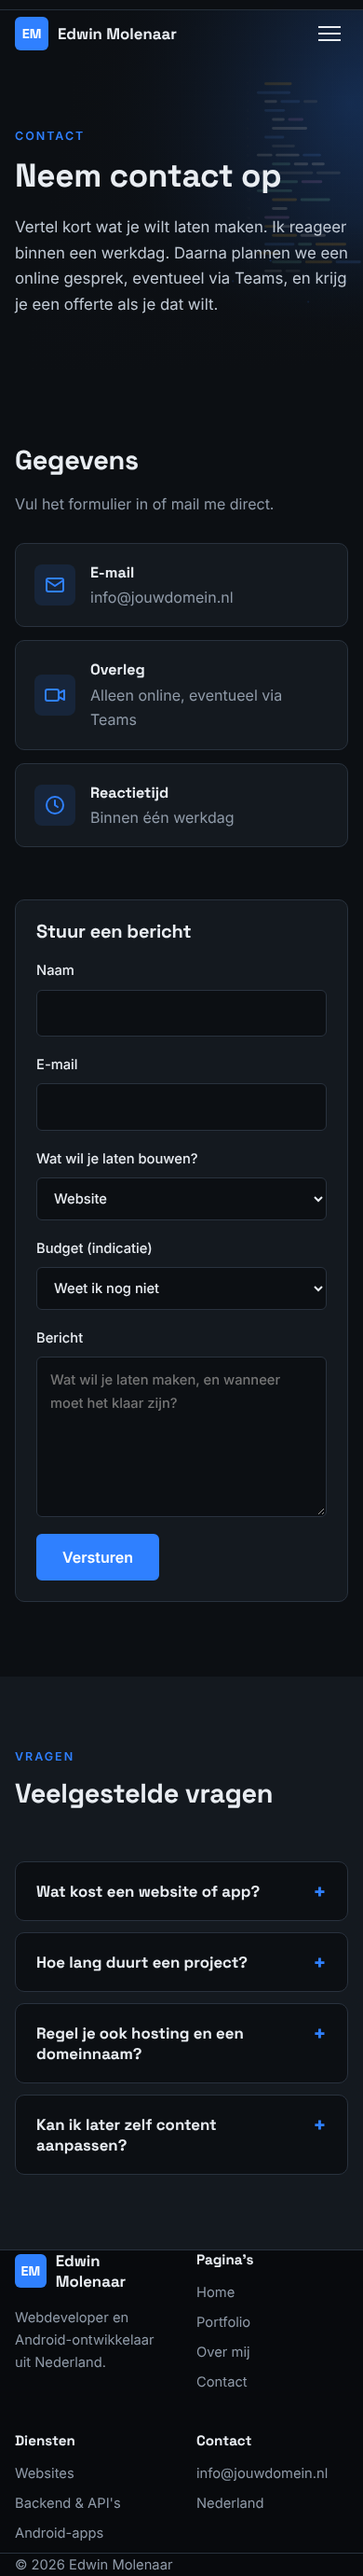
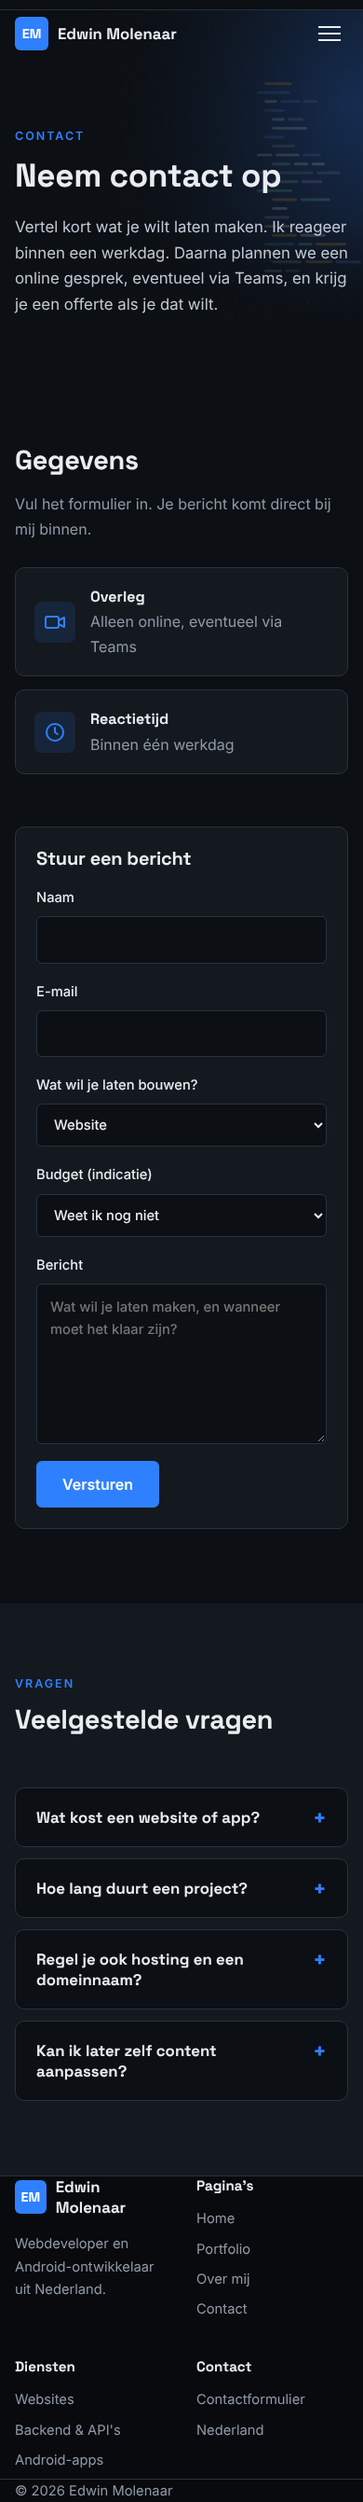
Send contact form server-side to info@wendaro.nl and link Wendaro Connect
The contact form now posts to contact.php, which mails the message with
PHP mail() and stores it in a new Berichten tab in the admin page, so the
address never appears on the site or in the page source. Remove the email
from the footer and contact page, add a honeypot, a time check and a
per-session limit against spam, and link Wendaro Connect to its website.

Claude-Session: https://claude.ai/code/session_01BR2aM2KyyCs7b3zr3d6H45

diff --git a/script.js b/script.js
@@ -39,15 +39,3 @@ if ("IntersectionObserver" in window) {
 } else {
   revealItems.forEach((el) => el.classList.add("visible"));
 }
-
-// Contactformulier: opent het e-mailprogramma met een ingevuld bericht
-const form = document.getElementById("contact-form");
-if (form) {
-  form.addEventListener("submit", (e) => {
-    e.preventDefault();
-    const data = new FormData(form);
-    const subject = `Aanvraag: ${data.get("type")} – ${data.get("naam")}`;
-    const body = `Naam: ${data.get("naam")}\nE-mail: ${data.get("email")}\nType: ${data.get("type")}\nBudget: ${data.get("budget")}\n\n${data.get("bericht")}`;
-    window.location.href = `mailto:${form.dataset.email}?subject=${encodeURIComponent(subject)}&body=${encodeURIComponent(body)}`;
-  });
-}

diff --git a/style.css b/style.css
@@ -412,3 +412,4 @@ a.project-link:hover .visit { text-decoration: underline; }
 .lock:hover, .lock:focus-visible { opacity: 1; color: var(--text); }
 .lock:focus-visible { outline: 2px solid var(--accent); outline-offset: 2px; }
 .lock svg { width: 15px; height: 15px; fill: none; stroke: currentColor; stroke-width: 2; stroke-linecap: round; stroke-linejoin: round; }
+.hp { position: absolute; left: -9999px; width: 1px; height: 1px; overflow: hidden; }

diff --git a/beheer/beheer.css b/beheer/beheer.css
@@ -71,3 +71,5 @@
   .admin-side a { white-space: nowrap; }
   .inline-form { grid-template-columns: 1fr; }
 }
+.unread { border-color: #6b5420; }
+.admin-card .card-head a { color: var(--accent-hover); font-size: .92rem; }

diff --git a/contact.php b/contact.php
@@ -2,7 +2,55 @@
 require __DIR__ . '/includes/bootstrap.php';
 require __DIR__ . '/includes/layout.php';
 
-$email = c('contact_email');
+const TYPES = ['Website', 'Webapplicatie / backend', 'Android-app', 'Combinatie'];
+const BUDGETS = ['Weet ik nog niet', 'Tot € 2.500', '€ 2.500 – € 7.500', '€ 7.500 – € 15.000', 'Meer dan € 15.000'];
+
+$error = '';
+$old = ['naam' => '', 'email' => '', 'type' => TYPES[0], 'budget' => BUDGETS[0], 'bericht' => ''];
+
+if ($_SERVER['REQUEST_METHOD'] === 'POST') {
+    check_csrf();
+    foreach ($old as $k => $_) $old[$k] = trim((string)($_POST[$k] ?? ''));
+    $recent = array_filter($_SESSION['sent'] ?? [], fn($t) => $t > time() - 3600);
+
+    if (($_POST['website'] ?? '') !== '' || time() - (int)($_SESSION['form_shown'] ?? 0) < 3) {
+        // Spam: onzichtbaar veld ingevuld of binnen 3 seconden verstuurd. Doe alsof het gelukt is.
+        header('Location: contact.php?verzonden=1#formulier');
+        exit;
+    } elseif (count($recent) >= 5) {
+        $error = 'Je hebt al een paar berichten gestuurd. Probeer het over een uur opnieuw.';
+    } elseif ($old['naam'] === '' || mb_strlen($old['naam']) > 100 || preg_match('/[\r\n]/', $old['naam'])) {
+        $error = 'Vul je naam in.';
+    } elseif (!filter_var($old['email'], FILTER_VALIDATE_EMAIL) || mb_strlen($old['email']) > 150) {
+        $error = 'Vul een geldig e-mailadres in, zodat ik je kan antwoorden.';
+    } elseif (!in_array($old['type'], TYPES, true) || !in_array($old['budget'], BUDGETS, true)) {
+        $error = 'Kies wat je wilt laten bouwen en een budget.';
+    } elseif (mb_strlen($old['bericht']) < 10 || mb_strlen($old['bericht']) > 5000) {
+        $error = 'Schrijf een bericht van minimaal 10 tekens.';
+    } else {
+        $host = preg_replace('/[^a-z0-9.-]/i', '', explode(':', $_SERVER['HTTP_HOST'] ?? 'localhost')[0]);
+        $host = preg_replace('/^www\./i', '', $host);
+        $headers = implode("\r\n", [
+            'From: Website Edwin Molenaar <noreply@' . $host . '>',
+            'Reply-To: ' . $old['email'],
+            'MIME-Version: 1.0',
+            'Content-Type: text/plain; charset=UTF-8',
+            'Content-Transfer-Encoding: 8bit',
+        ]);
+        $body = "Naam: {$old['naam']}\nE-mail: {$old['email']}\nWat: {$old['type']}\nBudget: {$old['budget']}\n\n{$old['bericht']}\n";
+        $subject = mb_encode_mimeheader('Nieuw bericht via de website: ' . $old['type'], 'UTF-8');
+        $mailed = @mail(c('contact_email'), $subject, $body, $headers) ? 1 : 0;
+
+        db()->prepare('INSERT INTO messages (name, email, type, budget, body, mailed, created_at) VALUES (?, ?, ?, ?, ?, ?, ?)')
+            ->execute([$old['naam'], $old['email'], $old['type'], $old['budget'], $old['bericht'], $mailed, date('c')]);
+        $_SESSION['sent'] = [...$recent, time()];
+        header('Location: contact.php?verzonden=1#formulier');
+        exit;
+    }
+}
+$_SESSION['form_shown'] = time();
+$sent = isset($_GET['verzonden']);
+
 layout_head('Contact – Edwin Molenaar', 'Neem contact op met Edwin Molenaar voor een website, backend of Android-app.', 'contact');
 ?>
   <main>
@@ -12,12 +60,8 @@ layout_head('Contact – Edwin Molenaar', 'Neem contact op met Edwin Molenaar vo
       <div class="container contact">
         <div>
           <h2>Gegevens</h2>
-          <p class="muted">Vul het formulier in of mail me direct.</p>
+          <p class="muted">Vul het formulier in. Je bericht komt direct bij mij binnen.</p>
           <ul class="contact-cards">
-            <li>
-              <svg viewBox="0 0 24 24"><rect x="3" y="5" width="18" height="14" rx="2"/><path d="m3 7 9 6 9-6"/></svg>
-              <div><strong>E-mail</strong><a href="mailto:<?= e($email) ?>"><?= e($email) ?></a></div>
-            </li>
             <li>
               <svg viewBox="0 0 24 24"><rect x="2" y="6" width="14" height="12" rx="2"/><path d="m16 10 6-3v10l-6-3"/></svg>
               <div><strong>Overleg</strong><span><?= e(c('contact_meeting')) ?></span></div>
@@ -28,34 +72,38 @@ layout_head('Contact – Edwin Molenaar', 'Neem contact op met Edwin Molenaar vo
             </li>
           </ul>
         </div>
-        <form class="form" id="contact-form" data-email="<?= e($email) ?>">
+        <?php if ($sent): ?>
+        <div class="form" id="formulier" role="status">
+          <h3>Bedankt voor je bericht</h3>
+          <p class="muted">Je bericht is verstuurd. Ik reageer binnen een werkdag op het e-mailadres dat je hebt ingevuld.</p>
+          <a class="btn btn-outline" href="contact.php#formulier">Nog een bericht sturen</a>
+        </div>
+        <?php else: ?>
+        <form class="form" id="formulier" method="post" action="contact.php#formulier">
+          <?= csrf_field() ?>
           <h3>Stuur een bericht</h3>
+          <?php if ($error): ?><p class="notice notice-error" role="alert"><?= e($error) ?></p><?php endif; ?>
           <div class="field-row">
-            <label>Naam<input name="naam" required autocomplete="name"></label>
-            <label>E-mail<input name="email" type="email" required autocomplete="email"></label>
+            <label>Naam<input id="naam" name="naam" required maxlength="100" autocomplete="name" value="<?= e($old['naam']) ?>"></label>
+            <label>E-mail<input id="email" name="email" type="email" required maxlength="150" autocomplete="email" value="<?= e($old['email']) ?>"></label>
           </div>
           <div class="field-row">
             <label>Wat wil je laten bouwen?
-              <select name="type">
-                <option>Website</option>
-                <option>Webapplicatie / backend</option>
-                <option>Android-app</option>
-                <option>Combinatie</option>
+              <select id="type" name="type">
+                <?php foreach (TYPES as $t): ?><option<?= $t === $old['type'] ? ' selected' : '' ?>><?= e($t) ?></option><?php endforeach; ?>
               </select>
             </label>
             <label>Budget (indicatie)
-              <select name="budget">
-                <option>Weet ik nog niet</option>
-                <option>Tot &euro; 2.500</option>
-                <option>&euro; 2.500 – &euro; 7.500</option>
-                <option>&euro; 7.500 – &euro; 15.000</option>
-                <option>Meer dan &euro; 15.000</option>
+              <select id="budget" name="budget">
+                <?php foreach (BUDGETS as $b): ?><option<?= $b === $old['budget'] ? ' selected' : '' ?>><?= e($b) ?></option><?php endforeach; ?>
               </select>
             </label>
           </div>
-          <label>Bericht<textarea name="bericht" rows="6" required placeholder="Wat wil je laten maken, en wanneer moet het klaar zijn?"></textarea></label>
+          <label>Bericht<textarea id="bericht" name="bericht" rows="6" required minlength="10" maxlength="5000" placeholder="Wat wil je laten maken, en wanneer moet het klaar zijn?"><?= e($old['bericht']) ?></textarea></label>
+          <div class="hp" aria-hidden="true"><label>Laat dit veld leeg<input name="website" tabindex="-1" autocomplete="off"></label></div>
           <button class="btn" type="submit">Versturen</button>
         </form>
+        <?php endif; ?>
       </div>
     </section>
 

diff --git a/beheer/index.php b/beheer/index.php
@@ -4,7 +4,7 @@ require __DIR__ . '/../includes/bootstrap.php';
 header('X-Robots-Tag: noindex, nofollow');
 header('Cache-Control: no-store');
 
-const TABS = ['teksten' => 'Teksten & foto\'s', 'portfolio' => 'Portfolio', 'reviews' => 'Reviews', 'links' => 'Reviewlinks', 'account' => 'Account'];
+const TABS = ['berichten' => 'Berichten', 'teksten' => 'Teksten & foto\'s', 'portfolio' => 'Portfolio', 'reviews' => 'Reviews', 'links' => 'Reviewlinks', 'account' => 'Account'];
 
 function flash(string $msg, string $type = 'ok'): void { $_SESSION['flash'] = [$msg, $type]; }
 function back(string $query = ''): never
@@ -179,6 +179,15 @@ if ($action !== '') {
                 flash('De reviewlink is verwijderd en werkt niet meer.');
                 back('tab=links');
 
+            case 'message_read':
+                $pdo->prepare('UPDATE messages SET is_read = 1 WHERE id = ?')->execute([(int)($_POST['id'] ?? 0)]);
+                back('tab=berichten');
+
+            case 'message_delete':
+                $pdo->prepare('DELETE FROM messages WHERE id = ?')->execute([(int)($_POST['id'] ?? 0)]);
+                flash('Het bericht is verwijderd.');
+                back('tab=berichten');
+
             case 'password':
                 if (!password_verify((string)($_POST['current'] ?? ''), admin_hash())) throw new RuntimeException('Je huidige wachtwoord klopt niet.');
                 $pw = (string)($_POST['password'] ?? '');
@@ -195,15 +204,18 @@ if ($action !== '') {
     back();
 }
 
-render_page($_GET['tab'] ?? 'teksten');
+render_page($_GET['tab'] ?? 'berichten');
 
 // ---------- Weergave ----------
 function render_page(string $view): void
 {
     $flash = $_SESSION['flash'] ?? null;
     unset($_SESSION['flash']);
-    $tab = isset(TABS[$view]) ? $view : ($view === 'setup' || $view === 'login' ? $view : 'teksten');
-    $pending = is_admin() ? (int)db()->query('SELECT COUNT(*) FROM reviews WHERE status = "pending"')->fetchColumn() : 0;
+    $tab = isset(TABS[$view]) ? $view : ($view === 'setup' || $view === 'login' ? $view : 'berichten');
+    $badges = is_admin() ? [
+        'reviews' => (int)db()->query('SELECT COUNT(*) FROM reviews WHERE status = "pending"')->fetchColumn(),
+        'berichten' => (int)db()->query('SELECT COUNT(*) FROM messages WHERE is_read = 0')->fetchColumn(),
+    ] : [];
     ?>
 <!doctype html>
 <html lang="nl">
@@ -232,7 +244,7 @@ function render_page(string $view): void
     <?php if (is_admin()): ?>
     <nav class="container admin-tabs" aria-label="Onderdelen">
       <?php foreach (TABS as $key => $label): ?>
-      <a href="?tab=<?= $key ?>"<?= $key === $tab ? ' aria-current="page"' : '' ?>><?= e($label) ?><?php if ($key === 'reviews' && $pending): ?> <span class="badge"><?= $pending ?></span><?php endif; ?></a>
+      <a href="?tab=<?= $key ?>"<?= $key === $tab ? ' aria-current="page"' : '' ?>><?= e($label) ?><?php if (!empty($badges[$key])): ?> <span class="badge"><?= $badges[$key] ?></span><?php endif; ?></a>
       <?php endforeach; ?>
     </nav>
     <?php endif; ?>
@@ -288,6 +300,38 @@ function img_src(string $path): string
 {
     return '../' . $path;
 }
+
+function view_berichten(): void
+{
+    $rows = db()->query('SELECT * FROM messages ORDER BY created_at DESC')->fetchAll();
+    ?>
+    <h1>Berichten</h1>
+    <p class="muted">Berichten van het contactformulier. Ze worden ook naar <?= e(c('contact_email')) ?> gemaild; hier staan ze voor het geval een mail niet aankomt.</p>
+    <?php if (!$rows): ?>
+    <section class="admin-card"><p>Er zijn nog geen berichten.</p></section>
+    <?php endif; ?>
+    <?php foreach ($rows as $m): ?>
+    <section class="admin-card<?= $m['is_read'] ? '' : ' unread' ?>">
+      <div class="card-head">
+        <div>
+          <?php if (!$m['is_read']): ?><span class="pill pill-pending">Nieuw</span><?php endif; ?>
+          <?php if (!$m['mailed']): ?><span class="pill pill-hidden">Niet gemaild</span><?php endif; ?>
+          <h2><?= e($m['name']) ?> <span class="muted">· <?= e($m['type']) ?> · <?= e($m['budget']) ?></span></h2>
+          <a href="mailto:<?= e($m['email']) ?>"><?= e($m['email']) ?></a>
+        </div>
+        <span class="muted small"><?= e(date('d-m-Y H:i', strtotime($m['created_at']))) ?></span>
+      </div>
+      <p><?= nl2br(e($m['body'])) ?></p>
+      <div class="form-actions">
+        <a class="btn btn-sm" href="mailto:<?= e($m['email']) ?>?subject=<?= rawurlencode('Re: ' . $m['type']) ?>">Beantwoorden</a>
+        <?php if (!$m['is_read']): ?>
+        <form method="post"><?= csrf_field() ?><input type="hidden" name="action" value="message_read"><input type="hidden" name="id" value="<?= (int)$m['id'] ?>"><button class="btn btn-outline btn-sm" type="submit">Markeer als gelezen</button></form>
+        <?php endif; ?>
+        <form method="post" data-confirm="Dit bericht verwijderen?"><?= csrf_field() ?><input type="hidden" name="action" value="message_delete"><input type="hidden" name="id" value="<?= (int)$m['id'] ?>"><button class="btn btn-danger btn-sm" type="submit">Verwijderen</button></form>
+      </div>
+    </section>
+    <?php endforeach; ?>
+<?php }
 
 function view_teksten(): void
 {

diff --git a/includes/bootstrap.php b/includes/bootstrap.php
@@ -40,6 +40,9 @@ function db(): PDO
         name TEXT NOT NULL, company TEXT NOT NULL DEFAULT "", rating INTEGER NOT NULL, body TEXT NOT NULL,
         status TEXT NOT NULL DEFAULT "pending", created_at TEXT NOT NULL)');
     $pdo->exec('CREATE TABLE IF NOT EXISTS login_attempts (ip TEXT NOT NULL, at INTEGER NOT NULL)');
+    $pdo->exec('CREATE TABLE IF NOT EXISTS messages (
+        id INTEGER PRIMARY KEY, name TEXT NOT NULL, email TEXT NOT NULL, type TEXT NOT NULL, budget TEXT NOT NULL,
+        body TEXT NOT NULL, mailed INTEGER NOT NULL DEFAULT 0, is_read INTEGER NOT NULL DEFAULT 0, created_at TEXT NOT NULL)');
     if ($new) seed_projects($pdo);
     return $pdo;
 }
@@ -48,7 +51,7 @@ function seed_projects(PDO $pdo): void
 {
     $rows = [
         ['Edgeflow', 'Android · Meldingen', 'Android-app voor meldingen: gebruikers maken en volgen meldingen direct vanaf hun telefoon en krijgen een pushbericht bij elke update.', 'Android, Pushmeldingen', 'img/project-edgeflow.svg', ''],
-        ['Wendaro Connect', 'App · Platform', 'Platform dat mensen en informatie samenbrengt in één overzichtelijke app, gekoppeld aan een eigen backend.', 'Android, Backend', 'img/project-wendaro.svg', ''],
+        ['Wendaro Connect', 'App · Platform', 'Platform dat mensen en informatie samenbrengt in één overzichtelijke app, gekoppeld aan een eigen backend.', 'Android, Backend', 'img/project-wendaro.svg', 'https://www.wendaro.nl'],
         ['Wanyama Photo', 'Website · Fotografie', 'Website voor Wanyama Photo.', 'Website', 'img/project-wanyama.svg', 'https://www.wanyama-photo.nl'],
     ];
     $st = $pdo->prepare('INSERT INTO projects (sort, title, tag, description, tech, image, url) VALUES (?, ?, ?, ?, ?, ?, ?)');

diff --git a/includes/fields.php b/includes/fields.php
@@ -19,7 +19,7 @@ const FIELD_GROUPS = [
 
 const FIELDS = [
     // Algemeen
-    'contact_email' => ['group' => 'algemeen', 'label' => 'E-mailadres voor contact', 'type' => 'text', 'default' => 'info@jouwdomein.nl'],
+    'contact_email' => ['group' => 'algemeen', 'label' => 'E-mailadres waar berichten van het contactformulier heen gaan (staat nergens op de site)', 'type' => 'text', 'default' => 'info@wendaro.nl'],
     'available' => ['group' => 'algemeen', 'label' => 'Label "beschikbaar" tonen', 'type' => 'bool', 'default' => '1'],
     'available_text' => ['group' => 'algemeen', 'label' => 'Tekst van het label', 'type' => 'text', 'default' => 'Beschikbaar voor nieuwe projecten'],
     'footer_text' => ['group' => 'algemeen', 'label' => 'Tekst in de footer', 'type' => 'text', 'default' => 'Webdeveloper en Android-ontwikkelaar uit Nederland.'],

diff --git a/includes/layout.php b/includes/layout.php
@@ -69,7 +69,6 @@ function cta(): void
 
 function layout_foot(bool $lock = false): void
 {
-    $email = c('contact_email');
     ?>
   <footer class="footer">
     <div class="container footer-grid">
@@ -92,7 +91,7 @@ function layout_foot(bool $lock = false): void
       </div>
       <div>
         <h4>Contact</h4>
-        <a href="mailto:<?= e($email) ?>"><?= e($email) ?></a>
+        <a href="contact.php">Contactformulier</a>
         <span>Nederland</span>
       </div>
     </div>

diff --git a/README.md b/README.md
@@ -8,13 +8,16 @@ met een SQLite-database, zodat alles via een beheerpagina aan te passen is.
 - `index.php` – home met diensten, recent werk, reviews, werkwijze en samenwerken
 - `portfolio.php` – alle projecten; projecten met een link zijn aanklikbaar
 - `over-mij.php` – introductie, afspraken en technieken
-- `contact.php` – contactformulier (opent het mailprogramma) en veelgestelde vragen
+- `contact.php` – contactformulier en veelgestelde vragen. Berichten worden door de server naar het
+  ingestelde e-mailadres gemaild en ook bewaard in de beheerpagina; het adres staat nergens op de site
 - `review.php` – formulier voor klanten, alleen bereikbaar via een persoonlijke reviewlink
 - `beheer/` – beheerpagina met wachtwoord (bereikbaar via het slotje in de footer van de homepage, `noindex`)
 
 ## Beheerpagina
 
 Ga naar `/beheer/`. Daar pas je aan:
+
+- **Berichten**: alles wat via het contactformulier binnenkomt, met een knop om te antwoorden.
 
 - **Teksten & foto's**: alle teksten en afbeeldingen per pagina-onderdeel,
   het e-mailadres en het label "Beschikbaar voor nieuwe projecten".
@@ -38,7 +41,9 @@ Ga naar `/beheer/`. Daar pas je aan:
    Claude hebt gekregen (in `includes/config.php` staat alleen een versleutelde
    versie). Kies daarna bij Account meteen een eigen wachtwoord; vanaf dan geldt
    alleen dat wachtwoord.
-5. Vul bij Teksten & foto's → Algemeen je echte e-mailadres in.
+5. Berichten gaan naar info@wendaro.nl. Een ander adres stel je in bij Teksten & foto's → Algemeen.
+   Het formulier mailt via de PHP-functie `mail()`, die bij gewone hosting werkt. Komt er geen mail
+   aan, dan staan de berichten altijd in de beheerpagina bij Berichten.
 
 Hernoem je de map `beheer` (bijvoorbeeld naar `beheer-k7q2`), pas dan ook de
 link van het slotje aan in `includes/layout.php`.
